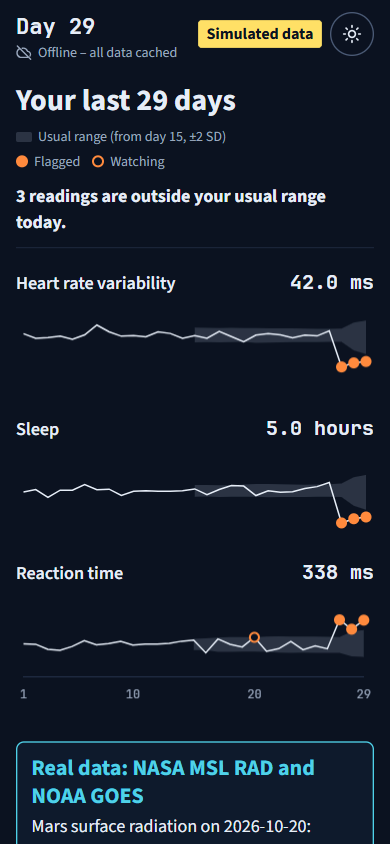
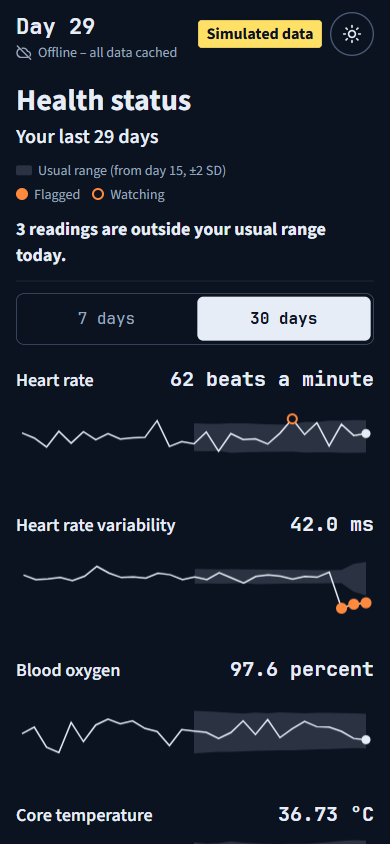
Console: trend view on all seven signals, 7 days / 30 days switch

diff --git a/web/app.js b/web/app.js
@@ -3,22 +3,23 @@
 // run on the simulated fixture plus today's self-check. Nothing is fetched from outside this folder.
 
 const TODAY = 29, NEXT = 30, ROUNDS = Reaction.ROUNDS;
-const CHANNELS = ["hrv_rmssd_ms", "sleep_hours", "reaction_ms"];
-const SELF_CHECK = ["reaction_ms", "sleep_hours", "mood_1to5"];
+const CHANNELS = ["heart_rate_bpm", "hrv_rmssd_ms", "spo2_pct", "core_temp_c", "sleep_hours", "mood_1to5", "reaction_ms"];const SELF_CHECK = ["reaction_ms", "sleep_hours", "mood_1to5"];
 const PREFIX = { osdr: "OSD-", ntrs: "NTRS " };
 const SIGNALS = {
   hrv_rmssd_ms: { name: "Heart rate variability", phrase: "Your heart rate variability today", unit: "ms", dp: 1, step: 10, low: "lower", high: "higher" },
   sleep_hours: { name: "Sleep", phrase: "Your sleep last night", unit: "hours", dp: 1, step: 1, low: "shorter", high: "longer" },
   reaction_ms: { name: "Reaction time", phrase: "Your reaction time today", unit: "ms", dp: 0, step: 50, low: "faster", high: "slower" },
-  mood_1to5: { name: "Mood", phrase: "Your mood today", unit: "of 5", diffUnit: "points", dp: 1, low: "lower", high: "higher" },
-  heart_rate_bpm: { name: "Heart rate", phrase: "Your heart rate today", unit: "beats a minute", dp: 0, low: "lower", high: "higher" },
-  spo2_pct: { name: "Blood oxygen", phrase: "Your blood oxygen today", unit: "percent", dp: 1, low: "lower", high: "higher" },
-  core_temp_c: { name: "Core temperature", phrase: "Your core temperature today", unit: "°C", dp: 2, low: "lower", high: "higher" },
+  // step for the four below: the smallest of 0.25, 0.5, 1, 2, 2.5, 5, 10 that gives three ticks on days 29 and 30
+  // of web/data/crew_a_anomaly.json (values plus usual range): 2 to 6, 50 to 70, 96 to 100, 36.5 to 37.0
+  mood_1to5: { name: "Mood", phrase: "Your mood today", unit: "of 5", diffUnit: "points", dp: 1, step: 2, low: "lower", high: "higher" },
+  heart_rate_bpm: { name: "Heart rate", phrase: "Your heart rate today", unit: "beats a minute", dp: 0, step: 10, low: "lower", high: "higher" },
+  spo2_pct: { name: "Blood oxygen", phrase: "Your blood oxygen today", unit: "percent", dp: 1, step: 2, low: "lower", high: "higher" },
+  core_temp_c: { name: "Core temperature", phrase: "Your core temperature today", unit: "°C", dp: 2, step: 0.25, low: "lower", high: "higher" },
 };
 
 const $ = (id) => document.getElementById(id);
 const css = (name) => getComputedStyle(document.documentElement).getPropertyValue(name).trim();
-const state = { fixture: [], evidence: {}, radiation: null, rows: [], flags: {}, day: TODAY, trials: [], recorded: false, charts: {}, current: null };
+const state = { fixture: [], evidence: {}, radiation: null, rows: [], flags: {}, day: TODAY, trials: [], recorded: false, charts: {}, current: null, range: 0 };
 
 // ---------- text ----------
 
@@ -30,6 +31,7 @@ function put(el, text) {
   return el;
 }
 const make = (tag, text, cls) => { const el = put(document.createElement(tag), text); if (cls) el.className = cls; return el; };
+const checked = (text) => put(document.createElement("span"), text).textContent; // for attributes such as aria-label
 
 const fmt = (signal, v, unit = SIGNALS[signal].unit) => `${v.toFixed(SIGNALS[signal].dp)} ${unit}`;
 // The numbers behind z (today, usual, spread) to one decimal everywhere; z uses the unrounded values,
@@ -308,28 +310,28 @@ function recompute(day) {
 }
 
 function drawChannel(signal) {
-  const rows = state.rows, last = rows.length - 1, vals = rows.map((r) => r[signal]);
-  const band = rows.map((_, i) => (i < Rules.MIN_HISTORY_DAYS ? null : Rules.baseline(vals.slice(0, i))));
-  const marks = rows.map((r) => (state.flags[r.day] || []).find((f) => f.signal === signal));
+  // Band and marks come from the full record (web/trend.js); the 7-day view only cuts the last days off it.
+  const full = Trend.series(state.rows, state.flags, signal, state.range);
+  const { days, vals, band, marks } = full.shown, last = days.length - 1;
   const box = document.querySelector(`[data-signal="${signal}"]`), canvas = box.querySelector("canvas");
   const [ink, quiet, scrub, flag] = ["--ink", "--quiet", "--scrub", "--flag"].map(css), mono = { family: css("--mono") };
   const range = (b) => `${fmt(signal, b.mean - 2 * b.sd)} to ${fmt(signal, b.mean + 2 * b.sd)}`;
-  const flagged = rows.filter((_, i) => marks[i]).map((r) => r.day);
+  const flagged = days.filter((_, i) => marks[i]);
   const bottom = signal === CHANNELS.at(-1), step = SIGNALS[signal].step;
-  const span = [...vals, ...band.filter(Boolean).flatMap((b) => [b.mean - 2 * b.sd, b.mean + 2 * b.sd])];
+  const span = [...full.vals, ...full.band.filter(Boolean).flatMap((b) => [b.mean - 2 * b.sd, b.mean + 2 * b.sd])];
   const yMin = Math.max(0, Math.floor(Math.min(...span) / step) * step); // three ticks, all whole steps; none below zero
   const yMax = yMin + Math.ceil((Math.max(...span) - yMin) / (2 * step)) * 2 * step;
 
   put(box.querySelector(".val"), fmt(signal, vals[last]));
-  canvas.setAttribute("aria-label",
-    `${SIGNALS[signal].name}, days 1 to ${rows[last].day}. Today ${fmt(signal, vals[last])}; usual range ${range(band[last])}. ` +
-    (flagged.length ? `Outside the usual range on days ${listWords(flagged.map(String))}.` : "No days outside the usual range."));
+  canvas.setAttribute("aria-label", checked(
+    `${SIGNALS[signal].name}, days ${days[0]} to ${days[last]}. Today ${fmt(signal, vals[last])}; usual range ${range(band[last])}. ` +
+    (flagged.length ? `Outside the usual range on day${flagged.length > 1 ? "s" : ""} ${listWords(flagged.map(String))}.` : "No day shown is outside the usual range.")));
 
   state.charts[signal]?.destroy();
   state.charts[signal] = new Chart(canvas, {
     type: "line",
     data: {
-      labels: rows.map((r) => r.day),
+      labels: days,
       datasets: [
         {
           data: vals, order: 0, borderColor: ink, borderWidth: 1.5,
@@ -367,7 +369,7 @@ function drawChannel(signal) {
           border: { color: css("--rule") },
           ticks: {
             autoSkip: false, maxRotation: 0, color: quiet, font: mono,
-            callback: (_, i) => { const d = rows[i].day; return d === 1 || d % 10 === 0 || i === last ? d : ""; },
+            callback: (_, i) => { const d = days[i]; return state.range || d === 1 || d % 10 === 0 || i === last ? d : ""; }, // 7 days: every day
           },
         },
         y: {
@@ -391,11 +393,20 @@ $("theme-btn").addEventListener("click", () => {
   if (Object.keys(state.charts).length) CHANNELS.forEach(drawChannel);
 });
 
+// 7 days · 30 days switch (design P7b). Not saved on the device; "Start the demo again" sets it back to 30 days.
+function setRange(days) {
+  state.range = days;
+  for (const b of document.querySelectorAll("[data-range]")) b.setAttribute("aria-pressed", String(+b.dataset.range === days));
+  if (!state.rows.length) return;
+  put($("console-days"), `Your last ${days ? Math.min(days, state.rows.length) : state.rows.length} days`);
+  CHANNELS.forEach(drawChannel);
+}
+for (const b of document.querySelectorAll("[data-range]")) b.addEventListener("click", () => setRange(+b.dataset.range));
+
 function renderConsole() {
   const day = state.day, n = flagsFor(day).filter((r) => r.signal).length;
-  put($("console-title"), `Your last ${state.rows.length} days`);
   put($("legend-band"), `Usual range (from day ${Rules.MIN_HISTORY_DAYS + 1}, ±${Rules.THRESHOLD} SD)`);
-  CHANNELS.forEach(drawChannel);
+  setRange(state.range); // draws the charts
   put($("console-summary"), n === 0
     ? "Nothing is outside your usual range today."
     : `${n} ${n === 1 ? "reading is" : "readings are"} outside your usual range today.`);
@@ -587,6 +598,7 @@ $("restart").addEventListener("click", () => {
   clearTimeout(rt.timer);
   rt.state = "idle";
   Object.assign(state, { rows: [], flags: {}, day: TODAY, trials: [], recorded: false, current: null });
+  setRange(0); // back to 30 days
   rtShow("Tap here to start");
   rtStatus();
   $("rt-again").hidden = true;

diff --git a/web/index.html b/web/index.html
@@ -137,6 +137,14 @@ fieldset { border: 0; padding: 0; margin: 28px 0 0; min-width: 0; }
 .plot { position: relative; height: 96px; }
 .channel.bottom .plot { height: 118px; }
 .summary-line { margin-bottom: 8px; padding-bottom: 12px; border-bottom: 1px solid var(--rule); font-weight: 700; }
+.days-line { margin: -4px 0 8px; font-size: 20px; font-weight: 600; }
+/* 7 days · 30 days (design P7b): one framed control, the pressed half filled. */
+.range { display: grid; grid-template-columns: 1fr 1fr; gap: 4px; margin: 12px 0 0; padding: 3px; border: 1px solid var(--strong); border-radius: 8px; }
+.range button {
+  min-height: 44px; border: 0; border-radius: 6px; background: none; color: var(--quiet);
+  font-family: var(--mono); font-size: 16px; cursor: pointer; touch-action: manipulation;
+}
+.range button[aria-pressed="true"] { background: var(--ink); color: var(--scrub); font-weight: 600; }
 /* Two no-wrap units: the band, and "Flagged" with "Watching". On phones they sit in two tidy rows,
    on wider screens in one; a single item is never left alone on a line. */
 .legend { display: flex; flex-wrap: wrap; gap: 4px 12px; list-style: none; padding: 0; margin: 0 0 12px; font-size: 14px; color: var(--quiet); }
@@ -316,18 +324,39 @@ fieldset { border: 0; padding: 0; margin: 28px 0 0; min-width: 0; }
 </section>
 
 <section id="console" aria-labelledby="console-title" hidden>
-  <h1 id="console-title" tabindex="-1">Your last 29 days</h1>
+  <h1 id="console-title" tabindex="-1">Health status</h1>
+  <p id="console-days" class="days-line">Your last 29 days</p>
   <ul class="legend" aria-label="Chart key">
     <li><span class="key band"></span><span id="legend-band">Usual range</span></li>
     <li><span><span class="key dot"></span>Flagged</span><span><span class="key ring"></span>Watching</span></li>
   </ul>
   <p id="console-summary" class="summary-line"></p>
+  <div class="range" role="group" aria-label="Days shown">
+    <button type="button" data-range="7" aria-pressed="false">7 days</button>
+    <button type="button" data-range="0" aria-pressed="true">30 days</button>
+  </div>
+  <div class="channel" data-signal="heart_rate_bpm">
+    <div class="channel-head"><span>Heart rate</span><span class="val"></span></div>
+    <div class="plot"><canvas role="img"></canvas></div>
+  </div>
   <div class="channel" data-signal="hrv_rmssd_ms">
     <div class="channel-head"><span>Heart rate variability</span><span class="val"></span></div>
     <div class="plot"><canvas role="img"></canvas></div>
   </div>
+  <div class="channel" data-signal="spo2_pct">
+    <div class="channel-head"><span>Blood oxygen</span><span class="val"></span></div>
+    <div class="plot"><canvas role="img"></canvas></div>
+  </div>
+  <div class="channel" data-signal="core_temp_c">
+    <div class="channel-head"><span>Core temperature</span><span class="val"></span></div>
+    <div class="plot"><canvas role="img"></canvas></div>
+  </div>
   <div class="channel" data-signal="sleep_hours">
     <div class="channel-head"><span>Sleep</span><span class="val"></span></div>
+    <div class="plot"><canvas role="img"></canvas></div>
+  </div>
+  <div class="channel" data-signal="mood_1to5">
+    <div class="channel-head"><span>Mood</span><span class="val"></span></div>
     <div class="plot"><canvas role="img"></canvas></div>
   </div>
   <div class="channel bottom" data-signal="reaction_ms">
@@ -403,8 +432,9 @@ fieldset { border: 0; padding: 0; margin: 28px 0 0; min-width: 0; }
 </main>
 <script src="vendor/chart.umd.js?v=943f58faf8"></script>
 <script src="rules.js?v=9280e87989"></script>
+<script src="trend.js?v=076b8d7565"></script>
 <script src="reaction.js?v=0c373ca889"></script>
 <script src="store.js?v=986788a7d2"></script>
-<script src="app.js?v=7612e563de"></script>
+<script src="app.js?v=bf9af0dc9f"></script>
 </body>
 </html>

diff --git a/web/trend.js b/web/trend.js
@@ -1,0 +1,23 @@
+"use strict";
+// Chart series for one signal, kept apart from the page so tests/test_web.py can run it in node.
+// The usual-range band and the flag marks are computed on the full record, then the last `days` are cut
+// for display, so the 7-day view shows the same values as the 30-day view for those days. Display only.
+(function (root) {
+  const Rules = root.Rules || require("./rules.js");
+
+  // rows: the record shown on the console; flags: Rules.evaluate(rows); days: 7, or 0 for the whole record.
+  function series(rows, flags, signal, days) {
+    const vals = rows.map((r) => r[signal]);
+    const band = rows.map((_, i) => (i < Rules.MIN_HISTORY_DAYS ? null : Rules.baseline(vals.slice(0, i))));
+    const marks = rows.map((r) => (flags[r.day] || []).find((f) => f.signal === signal) || null);
+    const from = days ? Math.max(0, rows.length - days) : 0;
+    return {
+      vals, band, // full record: the y-axis fits these, so both views share one scale
+      shown: { days: rows.slice(from).map((r) => r.day), vals: vals.slice(from), band: band.slice(from), marks: marks.slice(from) },
+    };
+  }
+
+  const api = { series };
+  if (typeof module === "object" && module.exports) module.exports = api;
+  else root.Trend = api;
+})(this);

diff --git a/tests/test_web.py b/tests/test_web.py
@@ -70,7 +70,7 @@ def test_scripts_styles_and_fonts_carry_a_version_that_matches_their_content():
     endings are normalised so a Windows checkout gives the same hash."""
     html = Path("web/index.html").read_text(encoding="utf-8")
     scripts = re.findall(r'<script src="([^"?]+)\?v=([0-9a-f]+)"></script>', html)
-    assert [path for path, _ in scripts] == ["errors.js", "theme.js", "vendor/chart.umd.js", "rules.js", "reaction.js", "store.js", "app.js"], \
+    assert [path for path, _ in scripts] == ["errors.js", "theme.js", "vendor/chart.umd.js", "rules.js", "trend.js", "reaction.js", "store.js", "app.js"], \
         "errors.js loads first, so it can show errors from the scripts after it; theme.js before the body paints"
     assert html.count("<script") == len(scripts), "every script tag needs ?v="
     links = re.findall(r'<link rel="(?:preload|stylesheet)" href="([^"]+)"', html)
@@ -194,3 +194,59 @@ def test_demo_reaction_card_one_decimal_inputs_reproduce_z():
     shown = [round(r[k], 1) for k in ("current", "baseline_mean", "baseline_sd")]
     assert shown == [338.3, 281.4, 16.3]
     assert round((shown[0] - shown[1]) / shown[2], 1) == round(r["z"], 1) == 3.5
+
+
+def console_html() -> str:
+    html = Path("web/index.html").read_text(encoding="utf-8")
+    return html[html.index('<section id="console"'):html.index('<div id="radiation"')]
+
+
+def test_console_charts_all_seven_signals_in_the_order_of_app_js():
+    """PLAN Phase B item 1: heart rate, HRV, blood oxygen, core temperature, sleep, mood, reaction time."""
+    blocks = re.findall(r'<div class="channel( bottom)?" data-signal="([a-z0-9_]+)">', console_html())
+    app = Path("web/app.js").read_text(encoding="utf-8")
+    channels = json.loads(re.search(r"const CHANNELS = (\[[^\]]*\]);", app).group(1))
+    assert [s for _, s in blocks] == channels == [
+        "heart_rate_bpm", "hrv_rmssd_ms", "spo2_pct", "core_temp_c", "sleep_hours", "mood_1to5", "reaction_ms"]
+    assert [bool(b) for b, _ in blocks] == [False] * 6 + [True], "only the last chart shows the day axis"
+    for s in channels:
+        assert re.search(s + r': \{[^}]*step: [0-9.]+,', app), f"{s} needs a y-axis step"
+
+
+def test_range_switch_has_both_buttons_and_starts_on_30_days():
+    html = console_html()
+    assert '<h1 id="console-title" tabindex="-1">Health status</h1>' in html
+    switch = html[html.index('<div class="range"'):html.index('<div class="channel')]
+    assert re.findall(r'<button type="button" data-range="(\d+)" aria-pressed="(true|false)">([^<]+)</button>', switch) == [
+        ("7", "false", "7 days"), ("0", "true", "30 days")]
+    assert re.search(r"\.range button \{[^}]*min-height: 44px;", Path("web/index.html").read_text(encoding="utf-8"))
+
+
+TREND_JS = """
+const R = require('./web/rules.js'), T = require('./web/trend.js');
+const rows = JSON.parse(require('fs').readFileSync(0, 'utf8'));
+const out = {};
+for (const last of [29, 30]) {
+  const shown = rows.filter((r) => r.day <= last), flags = R.evaluate(shown);
+  for (const s of ['heart_rate_bpm', 'hrv_rmssd_ms', 'spo2_pct', 'core_temp_c', 'sleep_hours', 'mood_1to5', 'reaction_ms']) {
+    out[last + ' ' + s] = { week: T.series(shown, flags, s, 7).shown, month: T.series(shown, flags, s, 0).shown };
+  }
+}
+console.log(JSON.stringify(out));
+"""
+
+
+@pytest.mark.skipif(NODE is None, reason="node is not installed")
+def test_7_day_view_shows_the_same_band_and_marks_as_the_30_day_view():
+    """Band and marks are computed on the full record and then cut, never recomputed on the last 7 days."""
+    rows = json.loads(Path("web/data/crew_a_anomaly.json").read_text())["rows"]
+    out = json.loads(subprocess.run([NODE, "-e", TREND_JS], input=json.dumps(rows), capture_output=True, text=True, check=True).stdout)
+    assert len(out) == 14
+    for key, v in out.items():
+        week, month = v["week"], v["month"]
+        last = int(key.split()[0])
+        assert week["days"] == list(range(last - 6, last + 1)) and month["days"] == list(range(1, last + 1)), key
+        for k in ("vals", "band", "marks"):
+            assert week[k] == month[k][-7:], f"{key} {k}"
+    marked = {k.split()[1] for k, v in out.items() if k.startswith("29 ") and any(v["week"]["marks"])}
+    assert {"reaction_ms", "hrv_rmssd_ms", "sleep_hours"} <= marked, "the three demo flags show in the 7-day view on day 29"

diff --git a/README.md b/README.md
@@ -5,7 +5,7 @@
 **Baseline is a phone app that tells an astronaut whether today is normal *for them*.** It compares each day's readings with that person's own 30-day range. When something drifts, it shows the numbers, the NASA study behind the change, and one step to consider. It never diagnoses.
 
 <p align="center">
-  <img src="web/screenshots/2-console-390.png" width="260" alt="Console: 29 days of heart rate variability, sleep and reaction time. The grey band is the usual range. Days 27 to 29 are flagged in orange.">
+  <img src="web/screenshots/2-console-390.png" width="260" alt="Console titled Health status: the last 29 days of heart rate, heart rate variability and blood oxygen, the first three of seven charts. The grey band is the usual range. Heart rate variability is flagged in orange on days 27 to 29.">
   &nbsp;
   <img src="web/screenshots/3-flags-390.png" width="260" alt="Flag list: reaction time, heart rate variability and sleep are outside the usual range today, and several readings moved together within 48 hours.">
   &nbsp;
@@ -67,7 +67,7 @@ pytest -q
 python -m baseline.serve
 ```
 
-`pytest -q` should print **61 passed**. The last line opens the demo in your browser at http://localhost:8000 (or 8001–8010 if busy). Ctrl+C stops it.
+`pytest -q` should print **64 passed**. The last line opens the demo in your browser at http://localhost:8000 (or 8001–8010 if busy). Ctrl+C stops it.
 
 **On a phone:** `python -m baseline.serve --lan`, then open the second address it prints on a phone on the same wifi. Windows may ask to let Python through the firewall; allow it for private networks.
 
@@ -95,7 +95,7 @@ For a repeatable demo, use the **"Use recorded day-29 self-check"** button in st
 | Step | Screen | What you see |
 |---|---|---|
 | 1 | **Self-check** | A guide card, then a 5-round reaction test, sleep hours, sleep quality, mood, and a near-vision line. About 2 minutes. |
-| 2 | **Console** | 30-day chart of heart rate variability, sleep and reaction time. Grey band = your usual range. Orange dot = flagged. Orange ring = being watched. |
+| 2 | **Console** | "Health status": one chart per signal, seven in all (heart rate, heart rate variability (HRV), blood oxygen, core temperature, sleep, mood and reaction time); a 7 days · 30 days switch (30 by default, same usual range in both). Grey band = your usual range. Orange dot = flagged. Orange ring = being watched. |
 | 3 | **What changed** | Each flag in two lines: today's value against your usual, then a plain status such as "Well outside your usual range, third day running." |
 | 4 | **Evidence card** | The change in plain words, the numbers, why it matters (study finding in bold, source linked), and one step to consider. |
 | 5 | **Queue for flight surgeon** | The summary, and "Earliest reply in 44 minutes (22 minutes each way at Mars distance)." Display only. Nothing is sent. |
@@ -200,11 +200,11 @@ The seven OSDR searches cached on 30 Sep returned 57 hits, 50 distinct studies. 
 ```
 src/baseline/compute/   rules, baselines, radiation, wording check  (the reference logic)
 src/baseline/serve.py   local web server, --lan for phones
-web/                    the page: index.html, app.js, rules.js, screenshots, fonts, Chart.js
+web/                    the page: index.html, app.js, rules.js, trend.js, screenshots, fonts, Chart.js
 data/fixtures/          simulated 30-day records (clean, anomaly)
 cache/                  NTRS, OSDR and NOAA responses with source URL and fetch time
 docs/                   evidence map, evidence notes, design notes
-tests/                  49 tests
+tests/                  64 tests
 ```
 
 ---

diff --git a/docs/DESIGN.md b/docs/DESIGN.md
@@ -30,24 +30,27 @@ Single column, left aligned, 16 px gutters, designed at 390 px, max width 480 px
 
 ```
 Day 29                 Simulated data     <- 16 px bold ink on light yellow, sticky
-Your last 29 days                         <- 24 px title
+Health status                             <- title (Gate 1 label)
+Your last 29 days                         <- 20 px; "Your last 7 days" in the 7-day view
 ▬ Usual range (from day 15, ±2 SD)        <- 14 px quiet key, row 1 on phones
 ● Flagged  ○ Watching                     <- row 2; one row on wider screens
 4 readings are outside your usual range.  <- 18 px, the answer first
+[   7 days   |  30 days  ]                <- switch, 30 days pressed by default
 
-Heart rate variability          42.0 ms   <- channel name / today's value
+Heart rate             62 beats a minute   <- channel name / today's value
+Heart rate variability          42.0 ms
 ░░░░░░░░░░░░░░▒▒▒▒▒▒▒▒▒▒▒▒▒▒▒▒             <- band from day 15
 ───────────────────────────●●●            <- ink trace, orange marks on flagged days
 Sleep                            4.7 h
 ...
 Reaction time                   338 ms
 ...
-1          10          20           29    <- one shared day axis
+1          10          20           29    <- one shared day axis (every day in the 7-day view)
 
 [ See what changed ]                      <- the one action, ink filled
 ```
 
-Console is three stacked channel strips sharing one day axis, the way a polysomnography or Holter printout is read, so drift in two signals at once is visible without a legend.
+Console is seven stacked channel strips (heart rate, HRV, blood oxygen, core temperature, sleep, mood, reaction time) sharing one day axis, the way a polysomnography or Holter printout is read, so drift in two signals at once is visible without a legend.
 
 ## Principles
 
